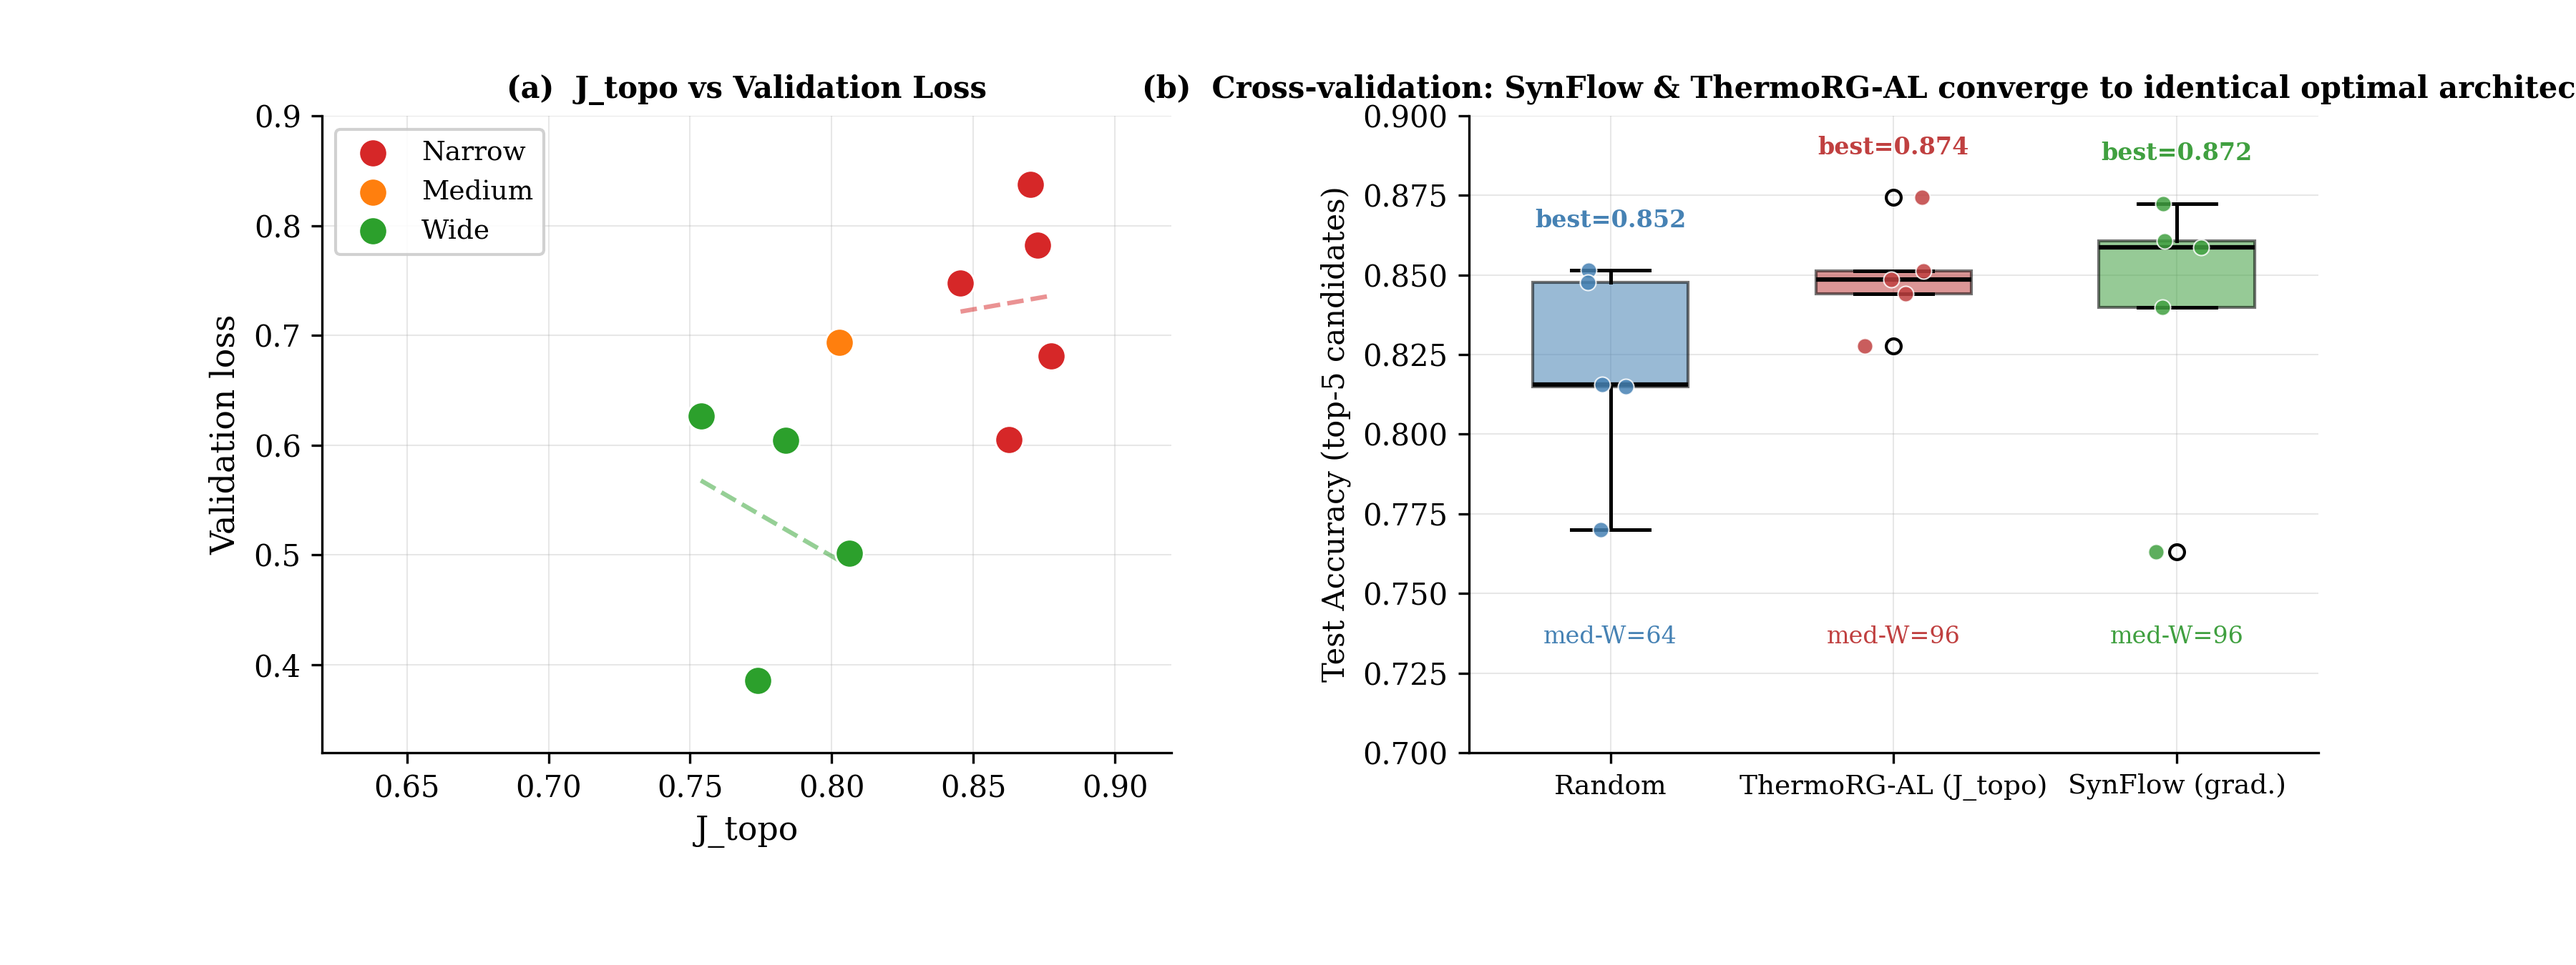
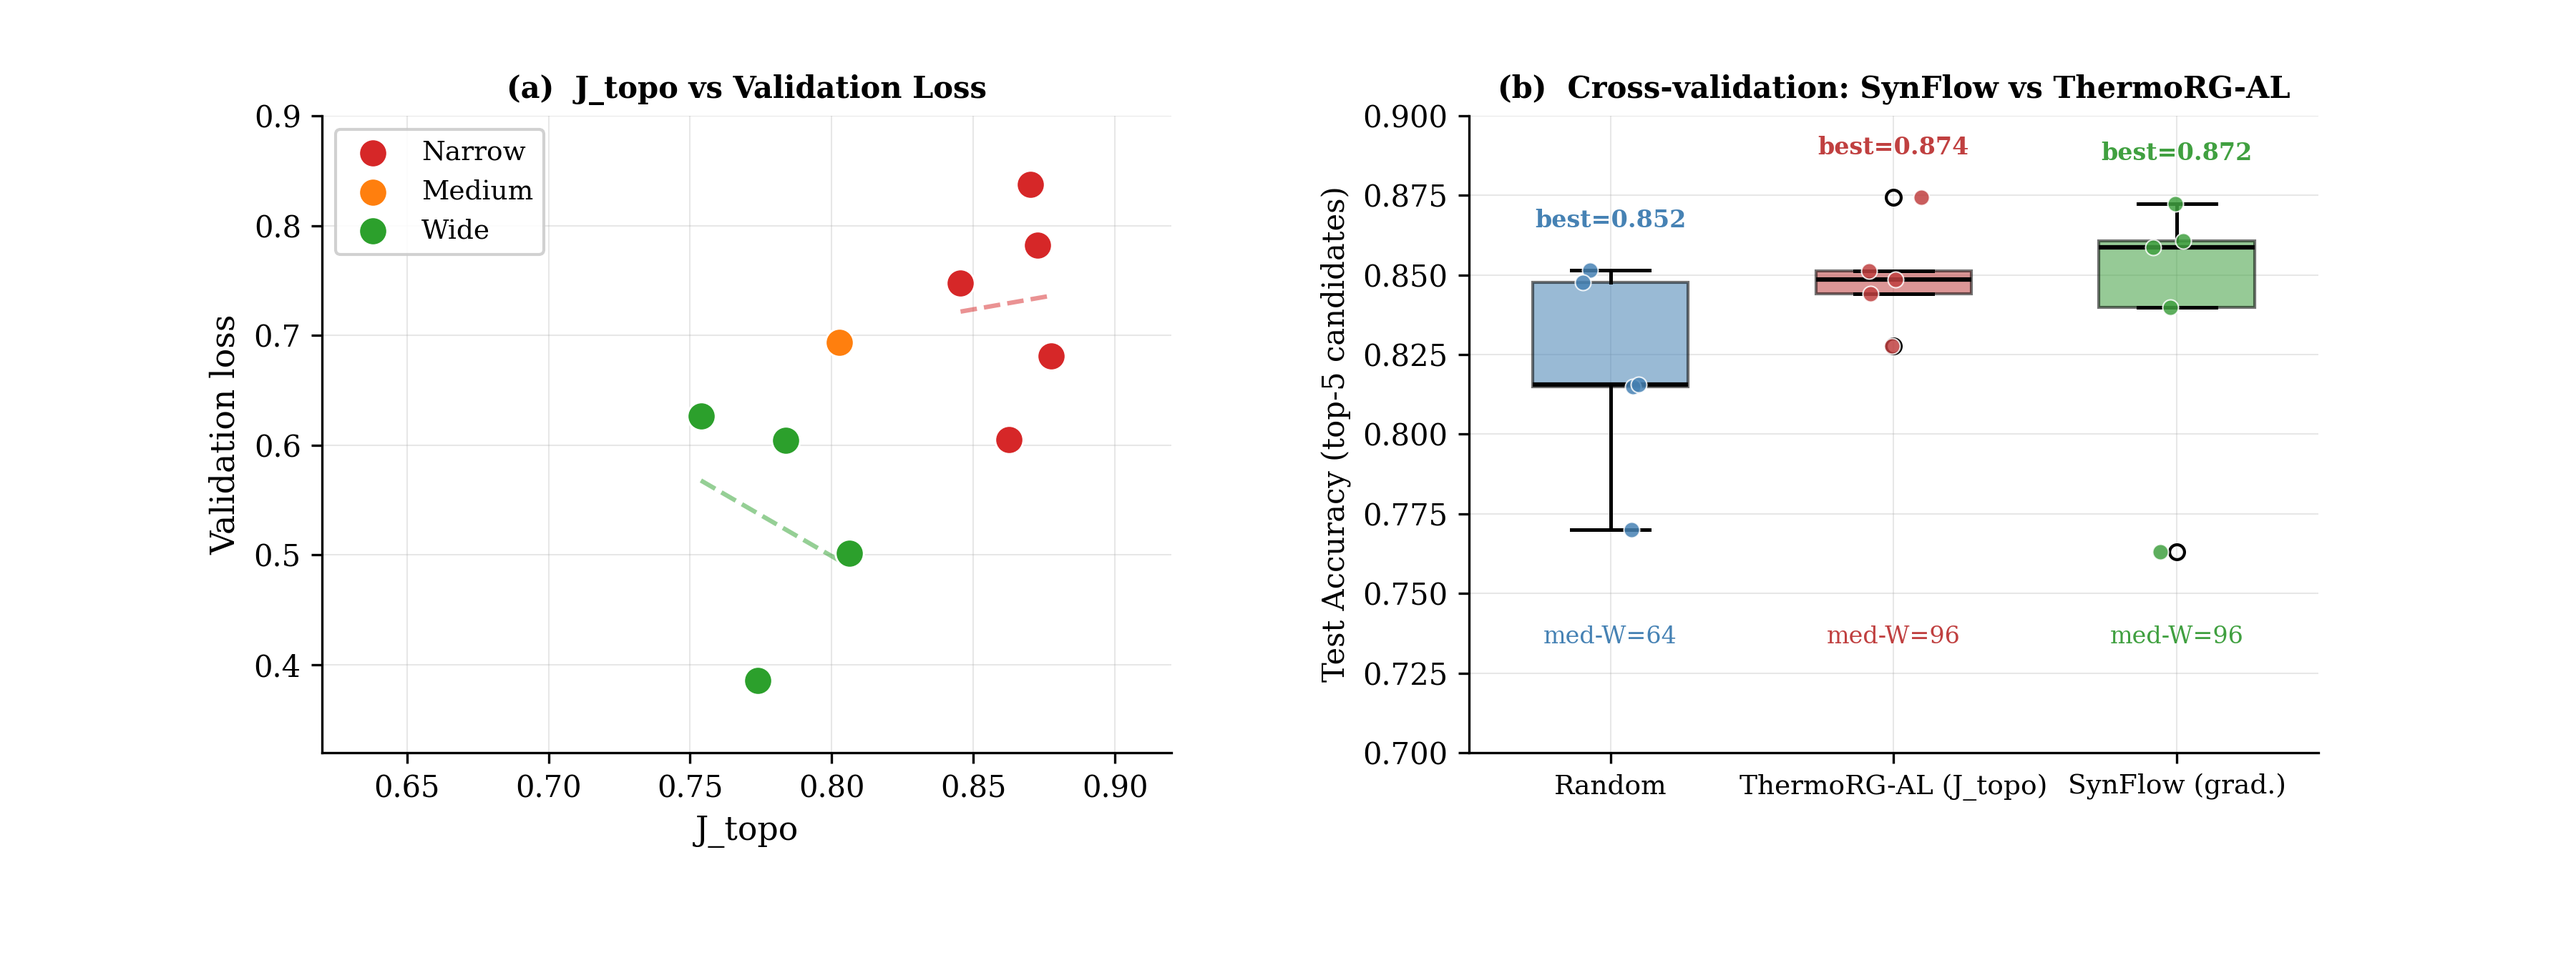
Shorten fig3 titles

diff --git a/papers/generate_figures.py b/papers/generate_figures.py
@@ -415,7 +415,7 @@ for i, (w_data, color) in enumerate(zip(width_data, colors)):
 ax.set_xticks([0, 1, 2])
 ax.set_xticklabels(method_names, fontsize=9)
 ax.set_ylabel("Test Accuracy (top-5 candidates)", fontsize=10)
-ax.set_title("(b)  Cross-validation: SynFlow & ThermoRG-AL converge to identical optimal architecture", fontsize=10, fontweight="bold")
+ax.set_title("(b)  Cross-validation: SynFlow vs ThermoRG-AL", fontsize=10, fontweight="bold")
 ax.set_ylim(0.70, 0.90)
 ax.grid(alpha=0.3, axis="y")
 
